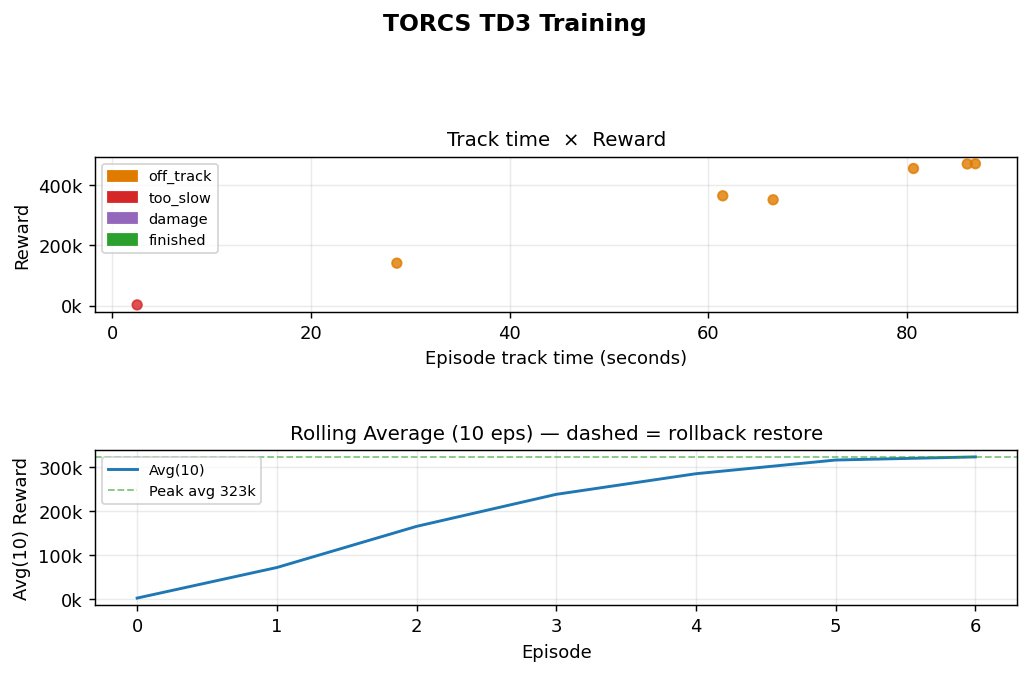
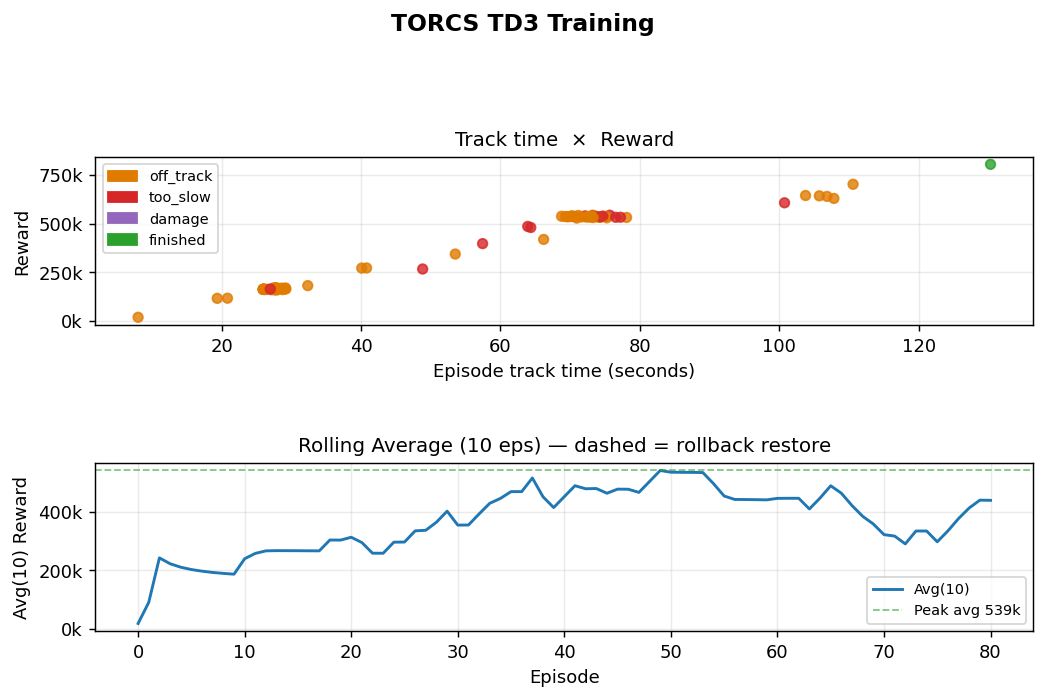
fix: rollback, new best

diff --git a/gym_torcs/train.py b/gym_torcs/train.py
@@ -18,19 +18,19 @@ BATCH_SIZE     = 256
 BUFFER_SIZE    = 500_000
 GAMMA          = 0.99
 TAU            = 0.001
-ACTOR_LR       = 1e-6
-CRITIC_LR      = 1e-6
+ACTOR_LR       = 3e-6
+CRITIC_LR      = 3e-6
 POLICY_NOISE   = 0.08
 NOISE_CLIP     = 0.15
 POLICY_DELAY   = 3
 WARMUP_STEPS   = 0
 SEED_STEPS     = 20_000
-EXPL_NOISE     = 0.03
+EXPL_NOISE     = 0.08
 RELAUNCH_EVERY = 20
 MODEL_DIR      = 'models'
 LOG_FILE       = 'training_log.txt'
 TRAIN_FREQ     = 4       # train once per N env steps (reduces update rate)
-ROLLBACK_SEED  = 20_000  # steps without training after rollback (rebuild buffer)
+ROLLBACK_SEED  = 2_000   # steps without training after rollback (rebuild buffer)
 
 # Prioritized Experience Replay
 PER_ALPHA          = 0.6    # prioritisation (0=uniform, 1=full)
@@ -38,8 +38,9 @@ PER_BETA_START     = 0.4    # IS correction start, anneals to 1.0
 PER_BETA_INCREMENT = 0.0001 # per training step
 
 # Auto-rollback: if Avg(10) drops this fraction below its peak, reload best-avg checkpoint
-ROLLBACK_DROP     = 0.35
-ROLLBACK_COOLDOWN = 25      # min episodes between rollbacks
+ROLLBACK_DROP     = 0.60
+ROLLBACK_COOLDOWN = 30      # min episodes between rollbacks
+ROLLBACK_PATIENCE = 40      # also rollback if no new peak for this many episodes
 
 DEVICE = torch.device('cpu')
 
@@ -278,6 +279,7 @@ class TD3:
             print(f"  [loaded] {path}/")
 
 
+
 # ── Training Loop ──────────────────────────────────────────────────
 if __name__ == '__main__':
     parser = argparse.ArgumentParser()
@@ -296,10 +298,12 @@ if __name__ == '__main__':
     agent  = TD3(STATE_DIM, ACTION_DIM)
     buffer = PrioritizedReplayBuffer(BUFFER_SIZE)
 
-    best_reward          = -np.inf
-    best_avg10           = -np.inf
-    rollback_cooldown    = 0
-    steps_since_rollback = ROLLBACK_SEED  # start ready to train
+    best_reward             = -np.inf
+    best_avg10              = -np.inf
+    rollback_cooldown       = 0
+    episodes_since_peak     = 0
+    steps_since_rollback    = ROLLBACK_SEED  # start ready to train
+    rollback_episode_window = []             # episode_rewards snapshot at peak avg
 
     # Load best checkpoint
     best_dir = f'{MODEL_DIR}/best'
@@ -389,22 +393,31 @@ if __name__ == '__main__':
             f.write(line + '\n')
 
         # Save rollback checkpoint whenever avg10 hits a new high
+        episodes_since_peak += 1
         if avg_reward > best_avg10:
             best_avg10 = avg_reward
+            episodes_since_peak = 0
+            rollback_episode_window = episode_rewards[-10:].copy()
             agent.save(f'{MODEL_DIR}/rollback', quiet=True)
+            rollback_cooldown = 0  # new peak → allow rollback immediately if it drops
 
         # Auto-rollback if avg10 collapsed
         rollback_cooldown = max(0, rollback_cooldown - 1)
+        pct_drop  = avg_reward < best_avg10 * (1 - ROLLBACK_DROP)
+        too_stale = (episodes_since_peak >= ROLLBACK_PATIENCE
+                     and avg_reward < best_avg10 * 0.95)  # must be at least 5% below peak
         if (rollback_cooldown == 0
                 and len(episode_rewards) >= 10
-                and avg_reward < best_avg10 * (1 - ROLLBACK_DROP)
+                and (pct_drop or too_stale)
                 and os.path.exists(f'{MODEL_DIR}/rollback/actor.pth')):
             agent.load(f'{MODEL_DIR}/rollback', quiet=True)
-            buffer = PrioritizedReplayBuffer(BUFFER_SIZE)  # clear poisoned buffer
+            buffer = PrioritizedReplayBuffer(BUFFER_SIZE)  # reset buffer on rollback
             steps_since_rollback = 0                       # pause training for ROLLBACK_SEED steps
-            episode_rewards = []                           # reset avg so it reflects new episodes only
+            episode_rewards = rollback_episode_window.copy() # restore exact window from peak
+            episodes_since_peak = 0
             rollback_cooldown = ROLLBACK_COOLDOWN
-            rb_line = f"  [rollback] avg {avg_reward:.0f} dropped from peak {best_avg10:.0f} — weights + buffer reset"
+            reason  = f"drop>{ROLLBACK_DROP*100:.0f}%" if pct_drop else f"no peak for {ROLLBACK_PATIENCE} eps"
+            rb_line = f"  [rollback] avg {avg_reward:.0f} vs peak {best_avg10:.0f} ({reason}) — weights + buffer reset"
             print(rb_line)
             with open(LOG_FILE, 'a') as f:
                 f.write(rb_line + '\n')

diff --git a/gym_torcs/gym_torcs.py b/gym_torcs/gym_torcs.py
@@ -141,7 +141,7 @@ class TorcsEnv:
         steer_delta = abs(float(u[0]) - prev_steer)
         smoothness_penalty = 0.5 * steer_delta
 
-        reward = progress + 0.1 * sp - 0.5 * abs(sp_y) - 2.0 - smoothness_penalty
+        reward = progress + 0.3 * sp - 0.5 * abs(sp_y) - 2.0 - smoothness_penalty
         term_reason = None
 
         if obs['damage'] - obs_pre['damage'] > 0: